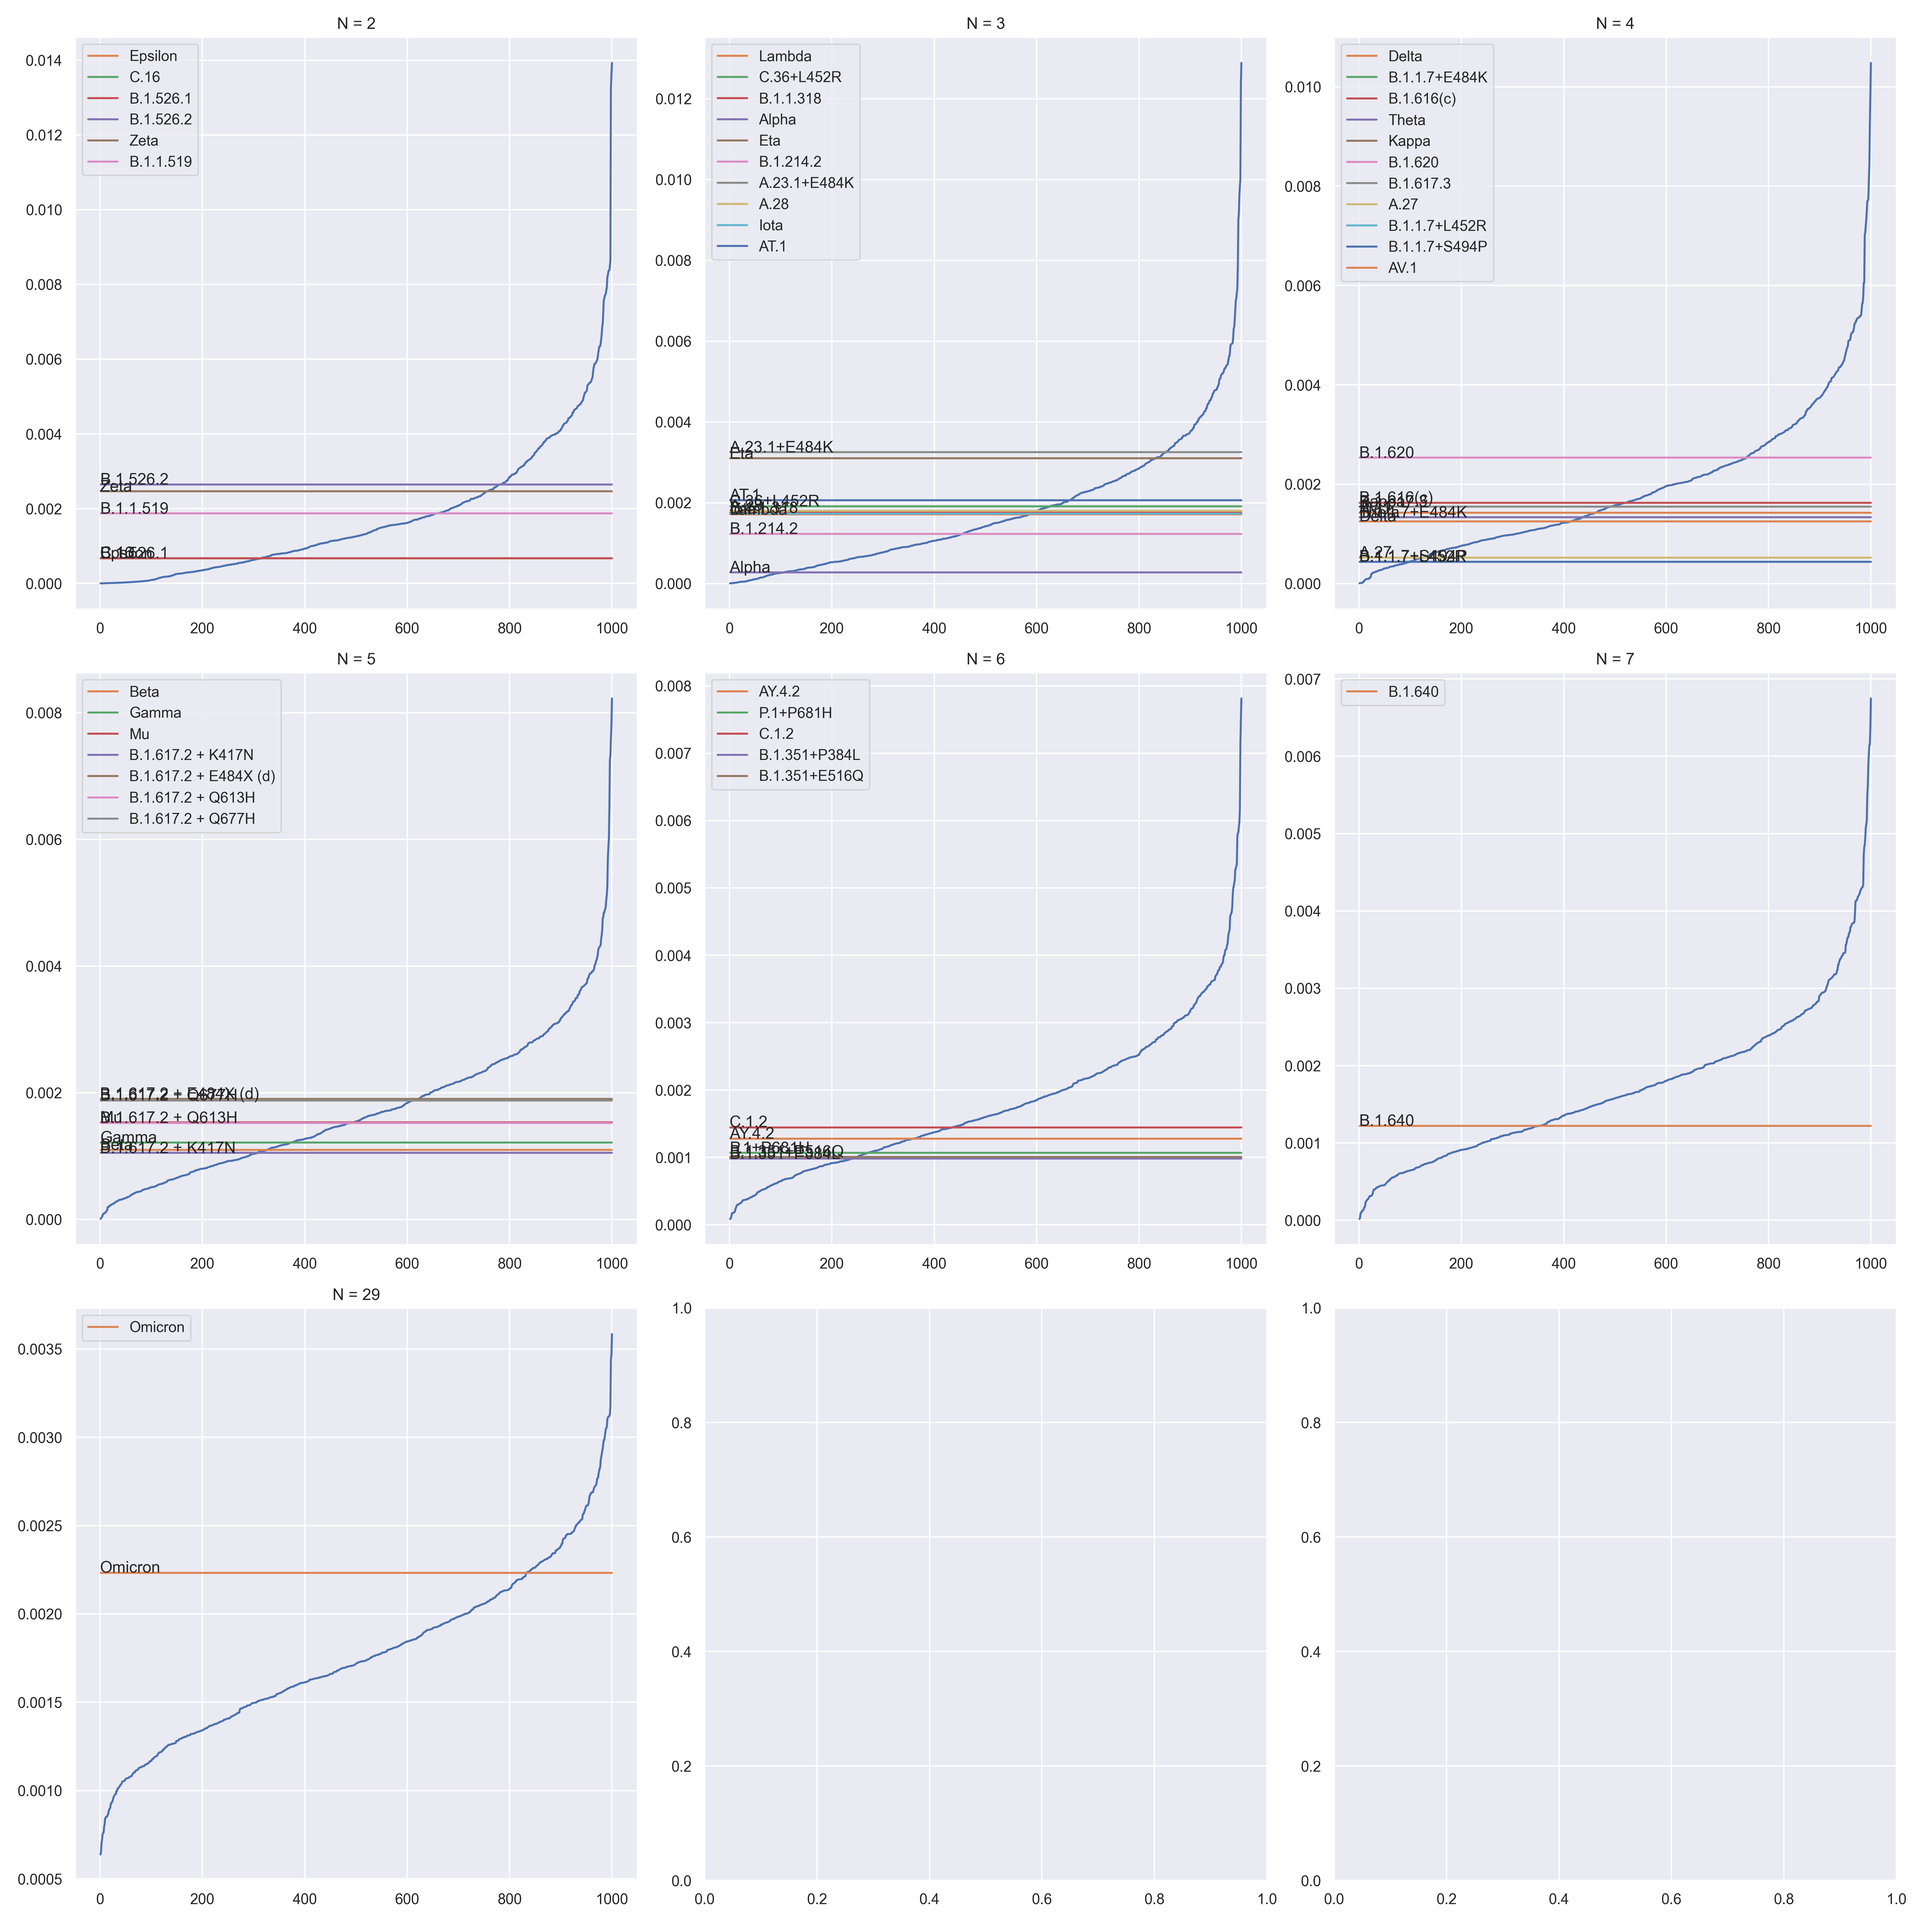
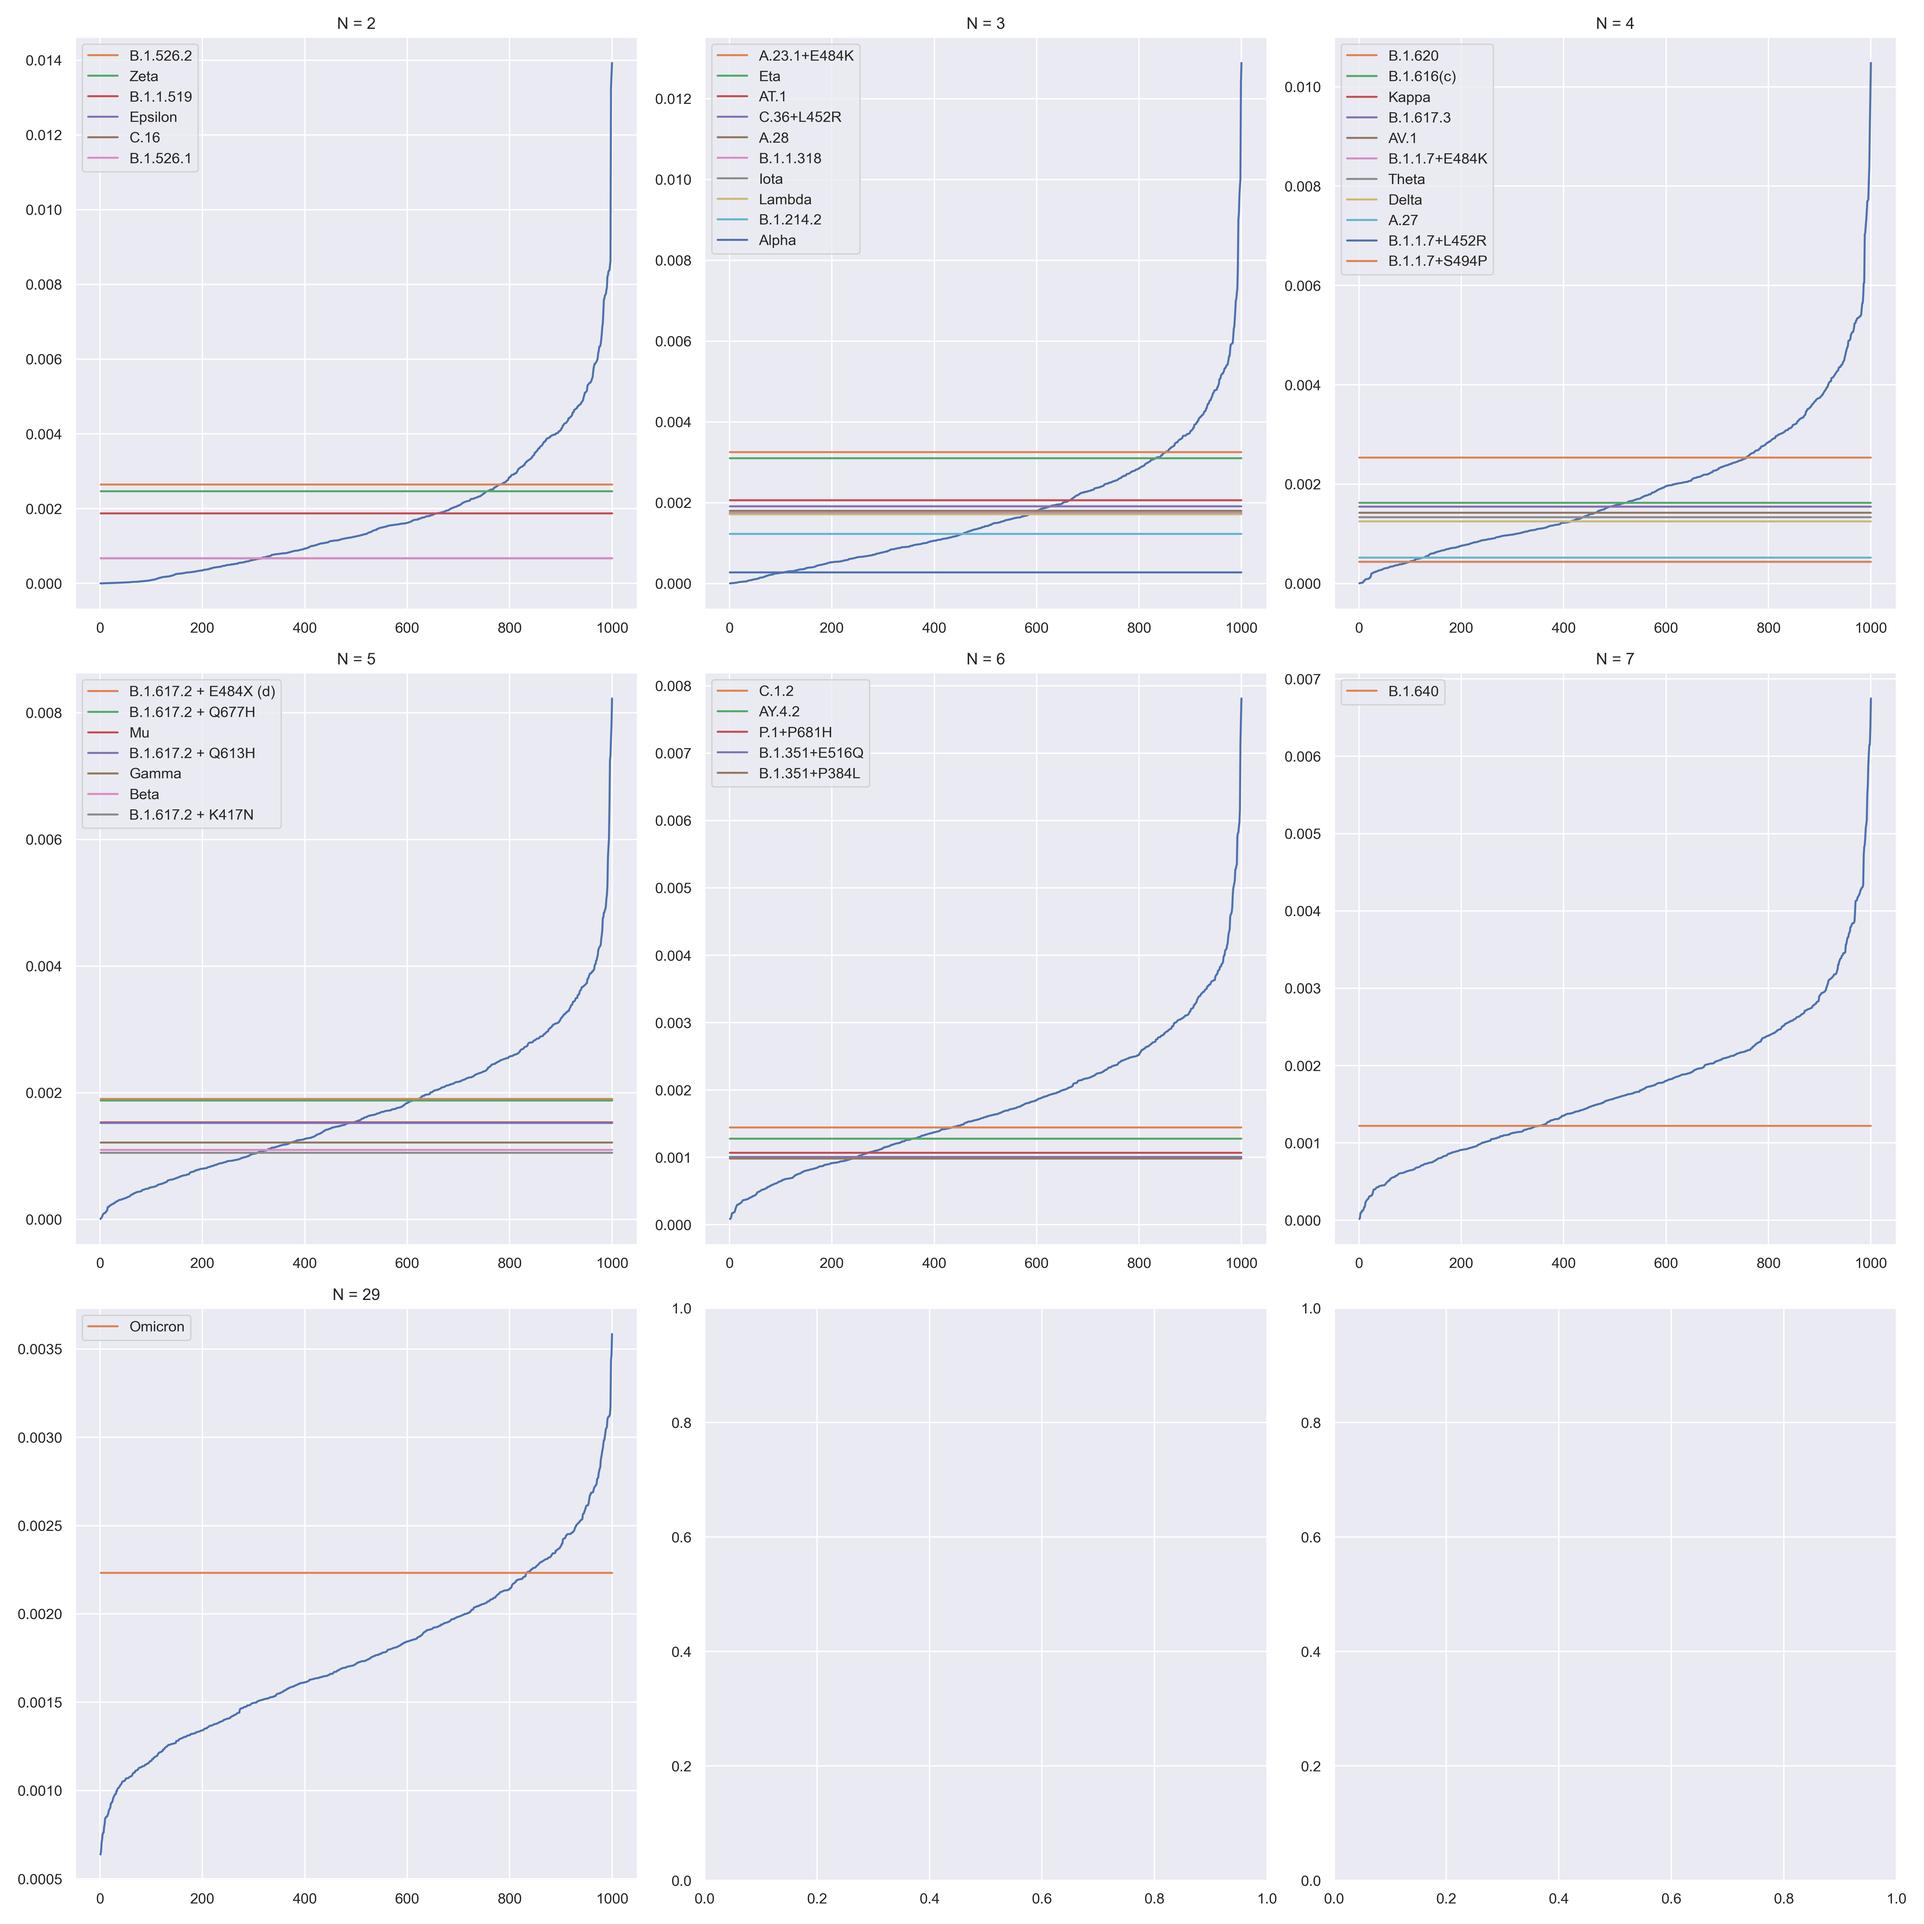
为组绘图基本完成，接下来修改度的图: 1. 使用log图形 2.

diff --git a/v2/output_procon_analysis.py b/v2/output_procon_analysis.py
@@ -436,6 +436,7 @@ class ProConNetwork:
         log.debug("min(sample_degrees) = %s", min(sample_degrees))
         log.debug("max(sample_degrees) = %s", max(sample_degrees))
 
+
         # 寻找最值
         min_value = min(min(aas_degrees), min(sample_degrees))
         max_value = max(max(aas_degrees), max(sample_degrees))
@@ -445,6 +446,13 @@ class ProConNetwork:
         cut_split = np.arange(min_value, max_value, 0.1).tolist()
         log.debug("cut_split = %s", cut_split)
 
+        # 折线图
+        aas_degrees.sort_values().reset_index(drop=True).plot()
+        plt.show()
+        sample_degrees.sort_values().reset_index(drop=True).plot()
+        plt.show()
+
+        # 柱状图
         aas_degrees_cut = pd.cut(aas_degrees, cut_split).value_counts().sort_index() / len(aas_degrees)
         sample_degrees_cut = pd.cut(sample_degrees, cut_split).value_counts().sort_index() / len(sample_degrees)
         log.debug("aas_degrees_cut = %s", aas_degrees_cut)
@@ -789,13 +797,13 @@ class ProConNetwork:
         # self._plot_mutations_relationship()  # 绘制变异位点的关系图: 节点-变异位点，节点大小-出现的次数，边-是否存在共保守性
         # self._collect_mutation_info()  # 收集变异位点的消息，生成表格
         # self._plot_procon_distribution()  # 分数分布图
-        # self._plot_degree_distribuition()  # 度分布
+        self._plot_degree_distribuition()  # 度分布
         # self._plot_node_box()  # 箱线图：中心性 + 保守性
         # self._plot_edge_box()  # 共保守性  TODO: 使用采样的方式
         # self.calculate_average_shortest_path_length()
 
         # 以组为单位的图
-        self._group_plot_centtrality()
+        # self._group_plot_centtrality()
 
     def random_sample_analysis(self, aas: list, groups, N=1000):
         """使用随机采样的形式，分析实验组和对照组的区别
@@ -982,7 +990,7 @@ class ProConNetwork:
                     ax: plt.Axes = axes[i]
                     sample_mean_score = grp_sample_scores[N]
                     ax.plot(range(1, len(sample_mean_score) + 1), sample_mean_score)
-                    for index, row in grp_info[grp_info["length"] == N].iterrows():
+                    for index, row in grp_info[grp_info["length"] == N].sort_values("score", ascending=False).iterrows():
                         ax.plot(range(1, len(sample_mean_score) + 1), [row["score"]] * len(sample_mean_score), label=row["name"])
                         # ax.loglog(range(1, len(sample_mean_score) + 1), [row["score"]] * len(sample_mean_score))
                         # ax.text(x=0, y=row["score"], s=row["name"])
